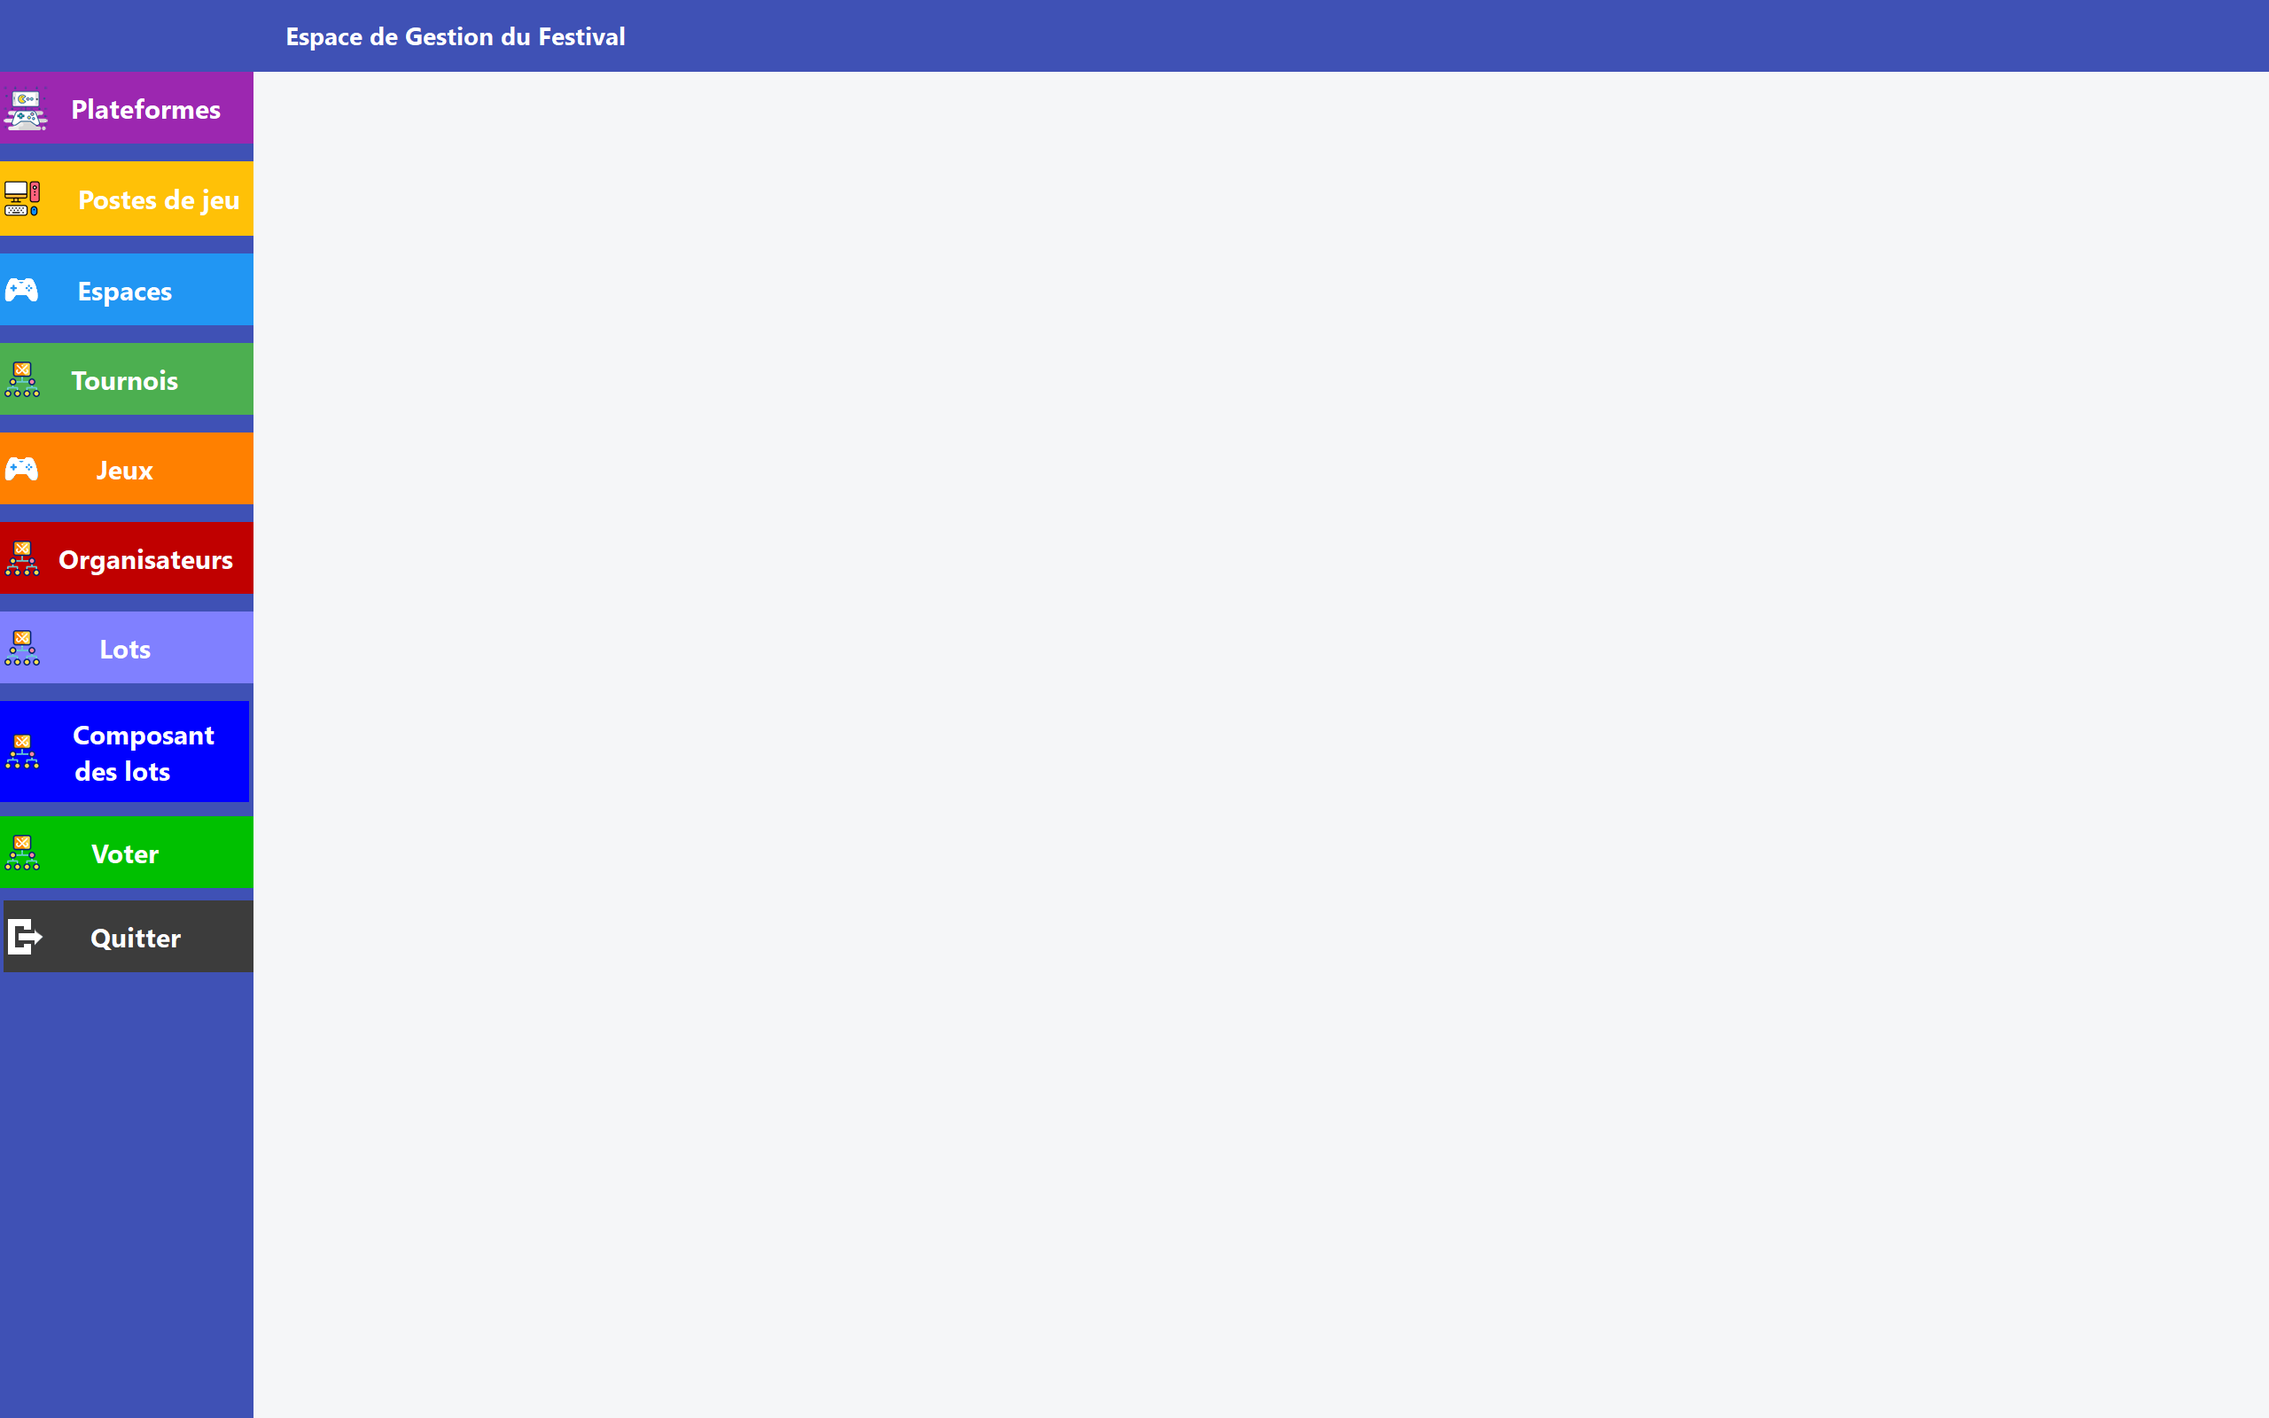
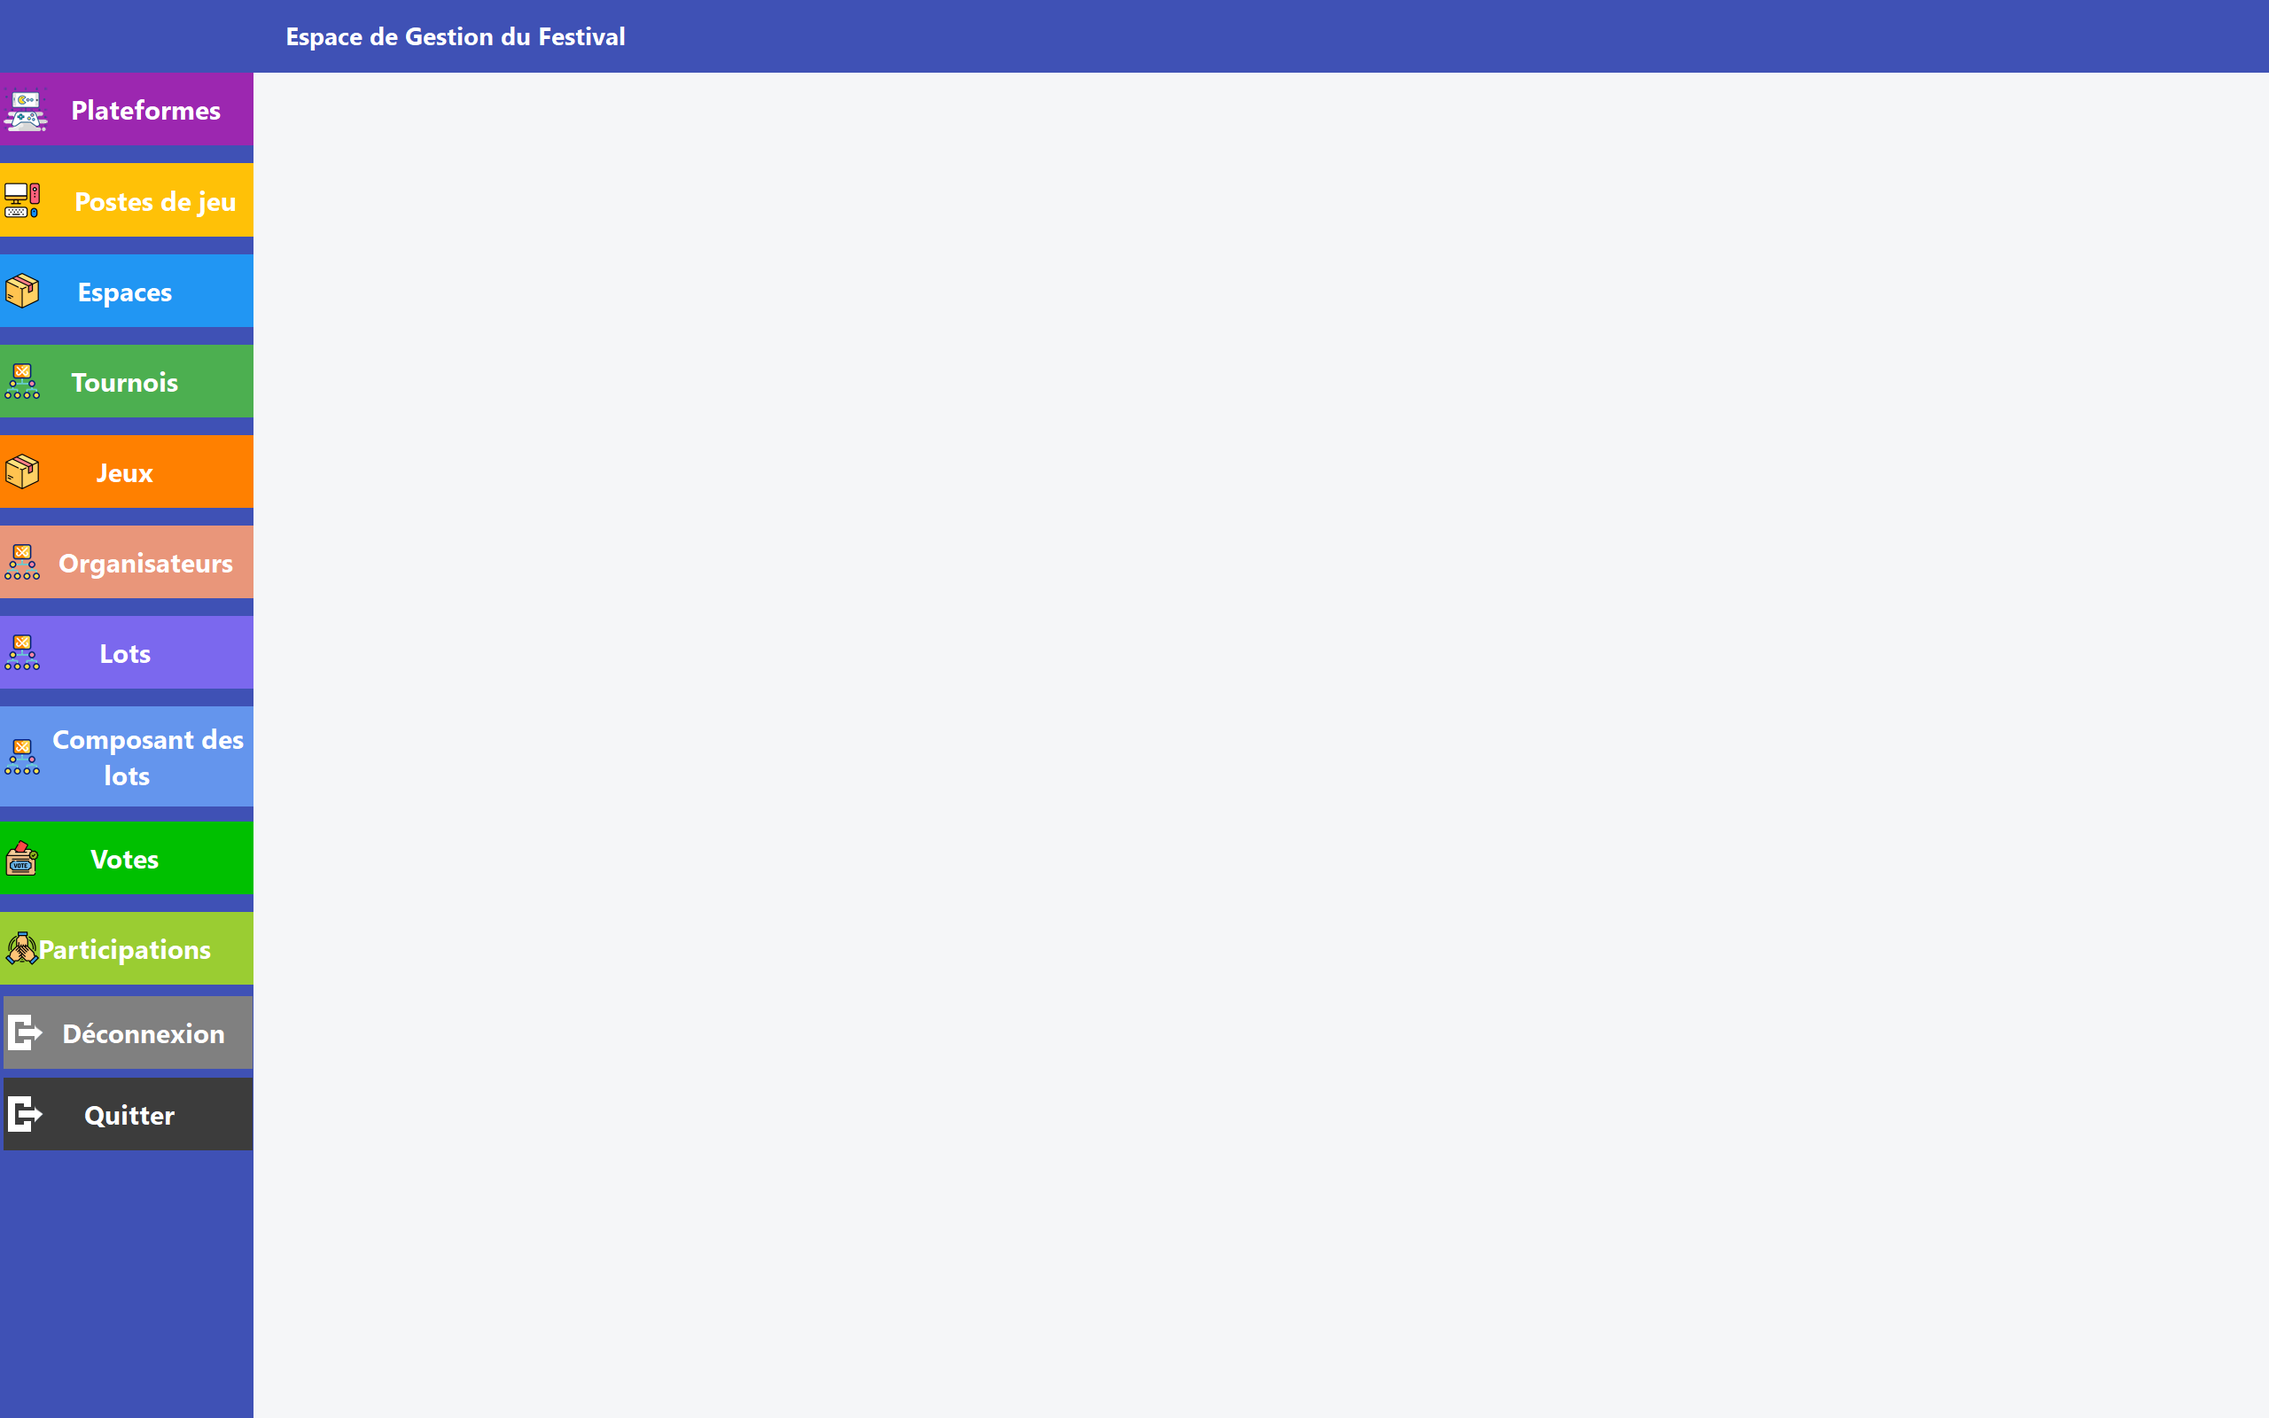
feat: pictogramme su rles boutons du FormMain

diff --git a/ApplicationUi/FormMain.Designer.cs b/ApplicationUi/FormMain.Designer.cs
@@ -19,6 +19,7 @@ namespace ApplicationUi
 
         private void InitializeComponent()
         {
+            System.ComponentModel.ComponentResourceManager resources = new System.ComponentModel.ComponentResourceManager(typeof(FormMain));
             panelMenu = new FlowLayoutPanel();
             btnPlateformes = new Button();
             btnPostes = new Button();
@@ -57,8 +58,9 @@ namespace ApplicationUi
             panelMenu.Dock = DockStyle.Left;
             panelMenu.FlowDirection = FlowDirection.TopDown;
             panelMenu.Location = new Point(0, 0);
+            panelMenu.Margin = new Padding(4, 5, 4, 5);
             panelMenu.Name = "panelMenu";
-            panelMenu.Size = new Size(200, 736);
+            panelMenu.Size = new Size(286, 1227);
             panelMenu.TabIndex = 2;
             panelMenu.WrapContents = false;
             // 
@@ -71,10 +73,10 @@ namespace ApplicationUi
             btnPlateformes.ForeColor = Color.White;
             btnPlateformes.Image = Properties.Resources.plateforme;
             btnPlateformes.ImageAlign = ContentAlignment.MiddleLeft;
-            btnPlateformes.Location = new Point(0, 49);
-            btnPlateformes.Margin = new Padding(0, 49, 0, 5);
+            btnPlateformes.Location = new Point(0, 82);
+            btnPlateformes.Margin = new Padding(0, 82, 0, 8);
             btnPlateformes.Name = "btnPlateformes";
-            btnPlateformes.Size = new Size(200, 49);
+            btnPlateformes.Size = new Size(286, 82);
             btnPlateformes.TabIndex = 0;
             btnPlateformes.Text = "      Plateformes";
             btnPlateformes.UseVisualStyleBackColor = false;
@@ -89,29 +91,28 @@ namespace ApplicationUi
             btnPostes.ForeColor = Color.White;
             btnPostes.Image = Properties.Resources.postes;
             btnPostes.ImageAlign = ContentAlignment.MiddleLeft;
-            btnPostes.Location = new Point(0, 110);
-            btnPostes.Margin = new Padding(0, 7, 0, 5);
+            btnPostes.Location = new Point(0, 184);
+            btnPostes.Margin = new Padding(0, 12, 0, 8);
             btnPostes.Name = "btnPostes";
-            btnPostes.Size = new Size(209, 50);
+            btnPostes.Size = new Size(299, 83);
             btnPostes.TabIndex = 1;
-            btnPostes.Text = "        Postes de jeu";
+            btnPostes.Text = "       Postes de jeu";
             btnPostes.UseVisualStyleBackColor = false;
             btnPostes.Click += BtnPostes_Click;
             // 
             // btnEspaces
             // 
             btnEspaces.BackColor = Color.FromArgb(33, 150, 243);
-            btnEspaces.BackgroundImageLayout = ImageLayout.None;
             btnEspaces.FlatAppearance.BorderSize = 0;
             btnEspaces.FlatStyle = FlatStyle.Flat;
             btnEspaces.Font = new Font("Segoe UI", 15F, FontStyle.Bold);
             btnEspaces.ForeColor = Color.White;
-            btnEspaces.Image = Properties.Resources.espace;
+            btnEspaces.Image = (System.Drawing.Image)resources.GetObject("btnEspaces.Image");
             btnEspaces.ImageAlign = ContentAlignment.MiddleLeft;
-            btnEspaces.Location = new Point(0, 172);
-            btnEspaces.Margin = new Padding(0, 7, 0, 5);
+            btnEspaces.Location = new Point(0, 287);
+            btnEspaces.Margin = new Padding(0, 12, 0, 8);
             btnEspaces.Name = "btnEspaces";
-            btnEspaces.Size = new Size(200, 49);
+            btnEspaces.Size = new Size(286, 82);
             btnEspaces.TabIndex = 2;
             btnEspaces.Text = "Espaces";
             btnEspaces.UseVisualStyleBackColor = false;
@@ -125,12 +126,12 @@ namespace ApplicationUi
             btnTournois.FlatStyle = FlatStyle.Flat;
             btnTournois.Font = new Font("Segoe UI", 15F, FontStyle.Bold);
             btnTournois.ForeColor = Color.White;
-            btnTournois.Image = Properties.Resources.tournoi;
+            btnTournois.Image = (System.Drawing.Image)resources.GetObject("btnTournois.Image");
             btnTournois.ImageAlign = ContentAlignment.MiddleLeft;
-            btnTournois.Location = new Point(0, 233);
-            btnTournois.Margin = new Padding(0, 7, 0, 5);
+            btnTournois.Location = new Point(0, 389);
+            btnTournois.Margin = new Padding(0, 12, 0, 8);
             btnTournois.Name = "btnTournois";
-            btnTournois.Size = new Size(200, 49);
+            btnTournois.Size = new Size(286, 82);
             btnTournois.TabIndex = 3;
             btnTournois.Text = "Tournois";
             btnTournois.UseVisualStyleBackColor = false;
@@ -144,12 +145,12 @@ namespace ApplicationUi
             buttonJeux.FlatStyle = FlatStyle.Flat;
             buttonJeux.Font = new Font("Segoe UI", 15F, FontStyle.Bold);
             buttonJeux.ForeColor = Color.White;
-            buttonJeux.Image = Properties.Resources.espace;
+            buttonJeux.Image = Properties.Resources.espaces;
             buttonJeux.ImageAlign = ContentAlignment.MiddleLeft;
-            buttonJeux.Location = new Point(0, 294);
-            buttonJeux.Margin = new Padding(0, 7, 0, 5);
+            buttonJeux.Location = new Point(0, 491);
+            buttonJeux.Margin = new Padding(0, 12, 0, 8);
             buttonJeux.Name = "buttonJeux";
-            buttonJeux.Size = new Size(200, 49);
+            buttonJeux.Size = new Size(286, 82);
             buttonJeux.TabIndex = 4;
             buttonJeux.Text = "Jeux";
             buttonJeux.UseVisualStyleBackColor = false;
@@ -165,10 +166,10 @@ namespace ApplicationUi
             btnOrganisateurs.ForeColor = Color.White;
             btnOrganisateurs.Image = Properties.Resources.tournoi;
             btnOrganisateurs.ImageAlign = ContentAlignment.MiddleLeft;
-            btnOrganisateurs.Location = new Point(0, 355);
-            btnOrganisateurs.Margin = new Padding(0, 7, 0, 5);
+            btnOrganisateurs.Location = new Point(0, 593);
+            btnOrganisateurs.Margin = new Padding(0, 12, 0, 8);
             btnOrganisateurs.Name = "btnOrganisateurs";
-            btnOrganisateurs.Size = new Size(200, 49);
+            btnOrganisateurs.Size = new Size(286, 82);
             btnOrganisateurs.TabIndex = 5;
             btnOrganisateurs.Text = "      Organisateurs";
             btnOrganisateurs.UseVisualStyleBackColor = false;
@@ -184,10 +185,10 @@ namespace ApplicationUi
             btnLots.ForeColor = Color.White;
             btnLots.Image = Properties.Resources.tournoi;
             btnLots.ImageAlign = ContentAlignment.MiddleLeft;
-            btnLots.Location = new Point(0, 416);
-            btnLots.Margin = new Padding(0, 7, 0, 5);
+            btnLots.Location = new Point(0, 695);
+            btnLots.Margin = new Padding(0, 12, 0, 8);
             btnLots.Name = "btnLots";
-            btnLots.Size = new Size(200, 49);
+            btnLots.Size = new Size(286, 82);
             btnLots.TabIndex = 6;
             btnLots.Text = "Lots";
             btnLots.UseVisualStyleBackColor = false;
@@ -203,10 +204,10 @@ namespace ApplicationUi
             btnLotComposants.ForeColor = Color.White;
             btnLotComposants.Image = Properties.Resources.tournoi;
             btnLotComposants.ImageAlign = ContentAlignment.MiddleLeft;
-            btnLotComposants.Location = new Point(0, 477);
-            btnLotComposants.Margin = new Padding(0, 7, 0, 3);
+            btnLotComposants.Location = new Point(0, 797);
+            btnLotComposants.Margin = new Padding(0, 12, 0, 5);
             btnLotComposants.Name = "btnLotComposants";
-            btnLotComposants.Size = new Size(203, 68);
+            btnLotComposants.Size = new Size(290, 113);
             btnLotComposants.TabIndex = 7;
             btnLotComposants.Text = "      Composant des lots";
             btnLotComposants.UseVisualStyleBackColor = false;
@@ -220,14 +221,14 @@ namespace ApplicationUi
             btnVoter.FlatStyle = FlatStyle.Flat;
             btnVoter.Font = new Font("Segoe UI", 15F, FontStyle.Bold);
             btnVoter.ForeColor = Color.White;
-            btnVoter.Image = Properties.Resources.tournoi;
+            btnVoter.Image = (System.Drawing.Image)resources.GetObject("btnVoter.Image");
             btnVoter.ImageAlign = ContentAlignment.MiddleLeft;
-            btnVoter.Location = new Point(0, 555);
-            btnVoter.Margin = new Padding(0, 7, 0, 5);
+            btnVoter.Location = new Point(0, 927);
+            btnVoter.Margin = new Padding(0, 12, 0, 8);
             btnVoter.Name = "btnVoter";
-            btnVoter.Size = new Size(200, 49);
+            btnVoter.Size = new Size(286, 82);
             btnVoter.TabIndex = 8;
-            btnVoter.Text = "Voter";
+            btnVoter.Text = "Votes";
             btnVoter.UseVisualStyleBackColor = false;
             btnVoter.Click += BtnVoter_Click;
             // 
@@ -239,12 +240,12 @@ namespace ApplicationUi
             btnParticiper.FlatStyle = FlatStyle.Flat;
             btnParticiper.Font = new Font("Segoe UI", 15F, FontStyle.Bold);
             btnParticiper.ForeColor = Color.White;
-            btnParticiper.Image = Properties.Resources.tournoi;
+            btnParticiper.Image = (System.Drawing.Image)resources.GetObject("btnParticiper.Image");
             btnParticiper.ImageAlign = ContentAlignment.MiddleLeft;
-            btnParticiper.Location = new Point(0, 616);
-            btnParticiper.Margin = new Padding(0, 7, 0, 5);
+            btnParticiper.Location = new Point(0, 1029);
+            btnParticiper.Margin = new Padding(0, 12, 0, 8);
             btnParticiper.Name = "btnParticiper";
-            btnParticiper.Size = new Size(200, 49);
+            btnParticiper.Size = new Size(286, 82);
             btnParticiper.TabIndex = 9;
             btnParticiper.Text = "Participations";
             btnParticiper.UseVisualStyleBackColor = false;
@@ -259,9 +260,10 @@ namespace ApplicationUi
             BtnDeconnexion.ForeColor = Color.White;
             BtnDeconnexion.Image = Properties.Resources.deconnecter;
             BtnDeconnexion.ImageAlign = ContentAlignment.MiddleLeft;
-            BtnDeconnexion.Location = new Point(3, 673);
+            BtnDeconnexion.Location = new Point(4, 1124);
+            BtnDeconnexion.Margin = new Padding(4, 5, 4, 5);
             BtnDeconnexion.Name = "BtnDeconnexion";
-            BtnDeconnexion.Size = new Size(197, 49);
+            BtnDeconnexion.Size = new Size(281, 82);
             BtnDeconnexion.TabIndex = 10;
             BtnDeconnexion.Text = "     Déconnexion";
             BtnDeconnexion.UseVisualStyleBackColor = false;
@@ -276,9 +278,10 @@ namespace ApplicationUi
             BtnQuitter.ForeColor = Color.White;
             BtnQuitter.Image = Properties.Resources.deconnecter;
             BtnQuitter.ImageAlign = ContentAlignment.MiddleLeft;
-            BtnQuitter.Location = new Point(3, 728);
+            BtnQuitter.Location = new Point(4, 1216);
+            BtnQuitter.Margin = new Padding(4, 5, 4, 5);
             BtnQuitter.Name = "BtnQuitter";
-            BtnQuitter.Size = new Size(197, 49);
+            BtnQuitter.Size = new Size(281, 82);
             BtnQuitter.TabIndex = 11;
             BtnQuitter.Text = " Quitter";
             BtnQuitter.UseVisualStyleBackColor = false;
@@ -291,18 +294,20 @@ namespace ApplicationUi
             panelHeader.Dock = DockStyle.Top;
             panelHeader.Font = new Font("Segoe UI", 13F, FontStyle.Bold);
             panelHeader.ForeColor = SystemColors.ControlLightLight;
-            panelHeader.Location = new Point(200, 0);
+            panelHeader.Location = new Point(286, 0);
+            panelHeader.Margin = new Padding(4, 5, 4, 5);
             panelHeader.Name = "panelHeader";
-            panelHeader.Size = new Size(872, 49);
+            panelHeader.Size = new Size(1245, 82);
             panelHeader.TabIndex = 1;
             // 
             // lblTitre
             // 
             lblTitre.AutoSize = true;
             lblTitre.Font = new Font("Segoe UI", 14F, FontStyle.Bold);
-            lblTitre.Location = new Point(20, 12);
+            lblTitre.Location = new Point(29, 20);
+            lblTitre.Margin = new Padding(4, 0, 4, 0);
             lblTitre.Name = "lblTitre";
-            lblTitre.Size = new Size(270, 25);
+            lblTitre.Size = new Size(401, 38);
             lblTitre.TabIndex = 0;
             lblTitre.Text = "Espace de Gestion du Festival";
             // 
@@ -310,22 +315,24 @@ namespace ApplicationUi
             // 
             panelContent.BackColor = Color.FromArgb(245, 246, 248);
             panelContent.Dock = DockStyle.Fill;
-            panelContent.Location = new Point(200, 49);
+            panelContent.Location = new Point(286, 82);
+            panelContent.Margin = new Padding(4, 5, 4, 5);
             panelContent.Name = "panelContent";
-            panelContent.Size = new Size(872, 687);
+            panelContent.Size = new Size(1245, 1145);
             panelContent.TabIndex = 0;
             // 
             // FormMain
             // 
-            AutoScaleDimensions = new SizeF(7F, 15F);
+            AutoScaleDimensions = new SizeF(10F, 25F);
             AutoScaleMode = AutoScaleMode.Font;
             BackColor = Color.FromArgb(245, 246, 248);
-            ClientSize = new Size(1072, 736);
+            ClientSize = new Size(1531, 1227);
             ControlBox = false;
             Controls.Add(panelContent);
             Controls.Add(panelHeader);
             Controls.Add(panelMenu);
             FormBorderStyle = FormBorderStyle.None;
+            Margin = new Padding(4, 5, 4, 5);
             Name = "FormMain";
             Text = "Back-office organisateur";
             WindowState = FormWindowState.Maximized;

diff --git a/ApplicationUi/FormMain.cs b/ApplicationUi/FormMain.cs
@@ -188,12 +188,17 @@ namespace ApplicationUi
                 // Récupère le premier poste de jeu de la plateforme 
                 LoadUserControl(new UcPlateformes(_organisateurConnecte, plateforme), "Gestion des plateformes");
             };
-            LoadUserControl(uc, "Espace de votes");
+            LoadUserControl(uc, "Gestion des jeux ouverts aux votes");
         }
 
         private void BtnParticiper_Click(object sender, EventArgs e)
         {
             LoadUserControl(new UcParticiper(_organisateurConnecte), "Gestion des participations");
+        }
+
+        private void panelContent_Paint(object sender, PaintEventArgs e)
+        {
+
         }
     }
 }

diff --git a/ApplicationUi/Properties/Resources.Designer.cs b/ApplicationUi/Properties/Resources.Designer.cs
@@ -73,9 +73,9 @@ namespace ApplicationUi.Properties {
         /// <summary>
         ///   Recherche une ressource localisée de type System.Drawing.Bitmap.
         /// </summary>
-        internal static System.Drawing.Bitmap espace {
+        internal static System.Drawing.Bitmap espaces {
             get {
-                object obj = ResourceManager.GetObject("espace", resourceCulture);
+                object obj = ResourceManager.GetObject("espaces", resourceCulture);
                 return ((System.Drawing.Bitmap)(obj));
             }
         }
